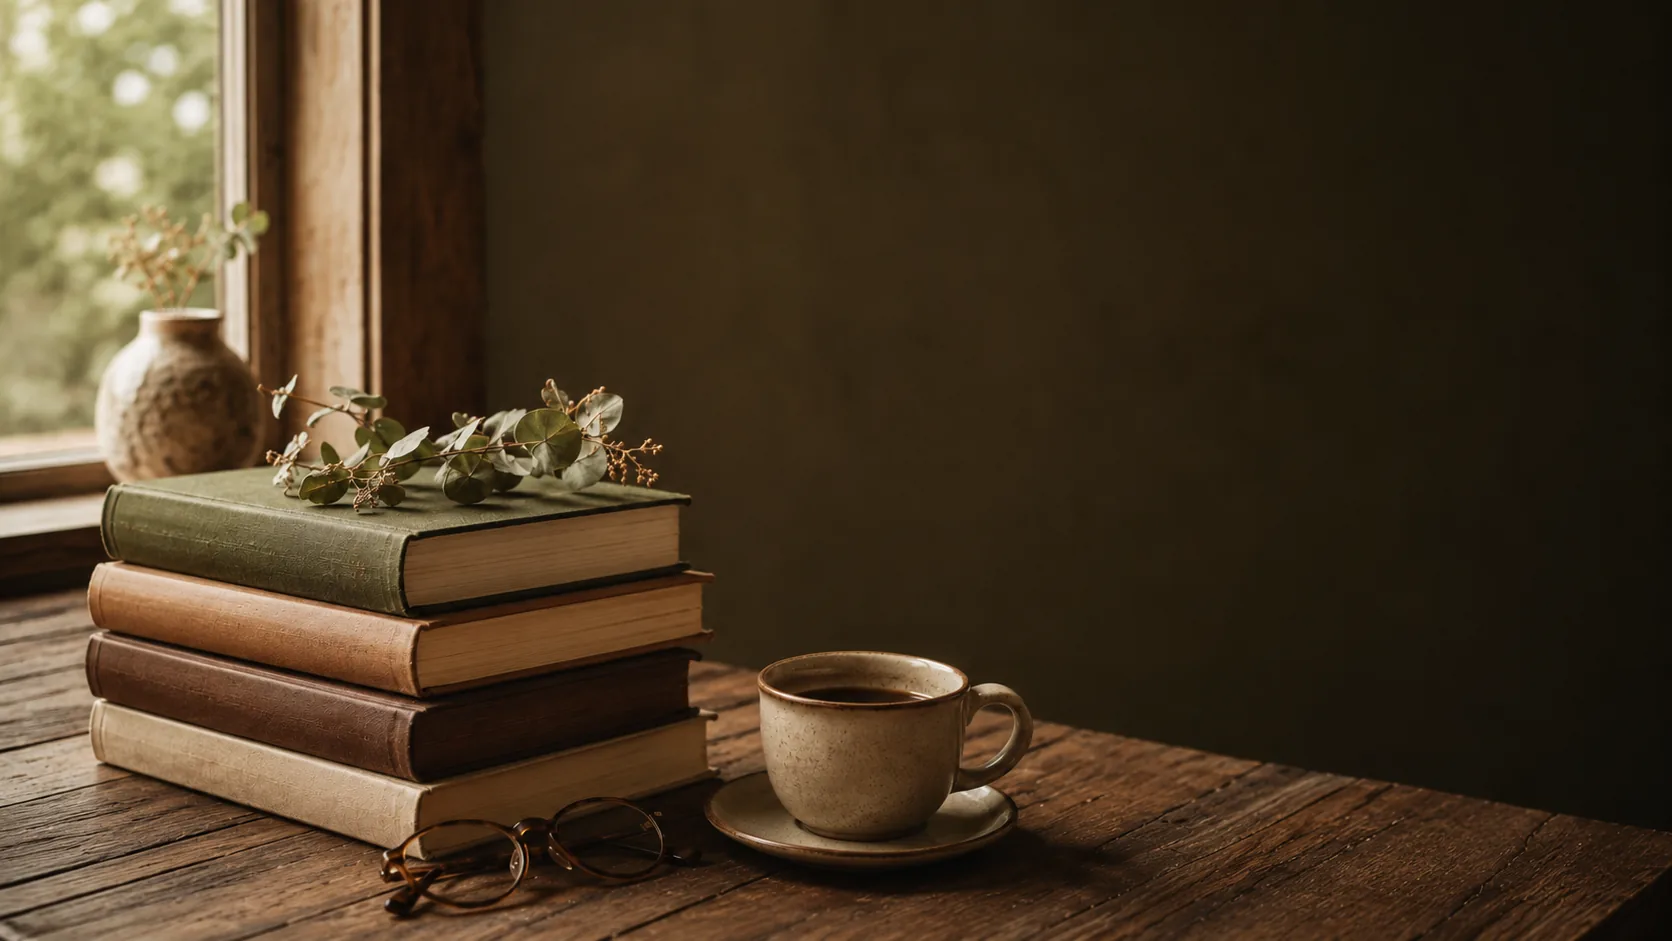
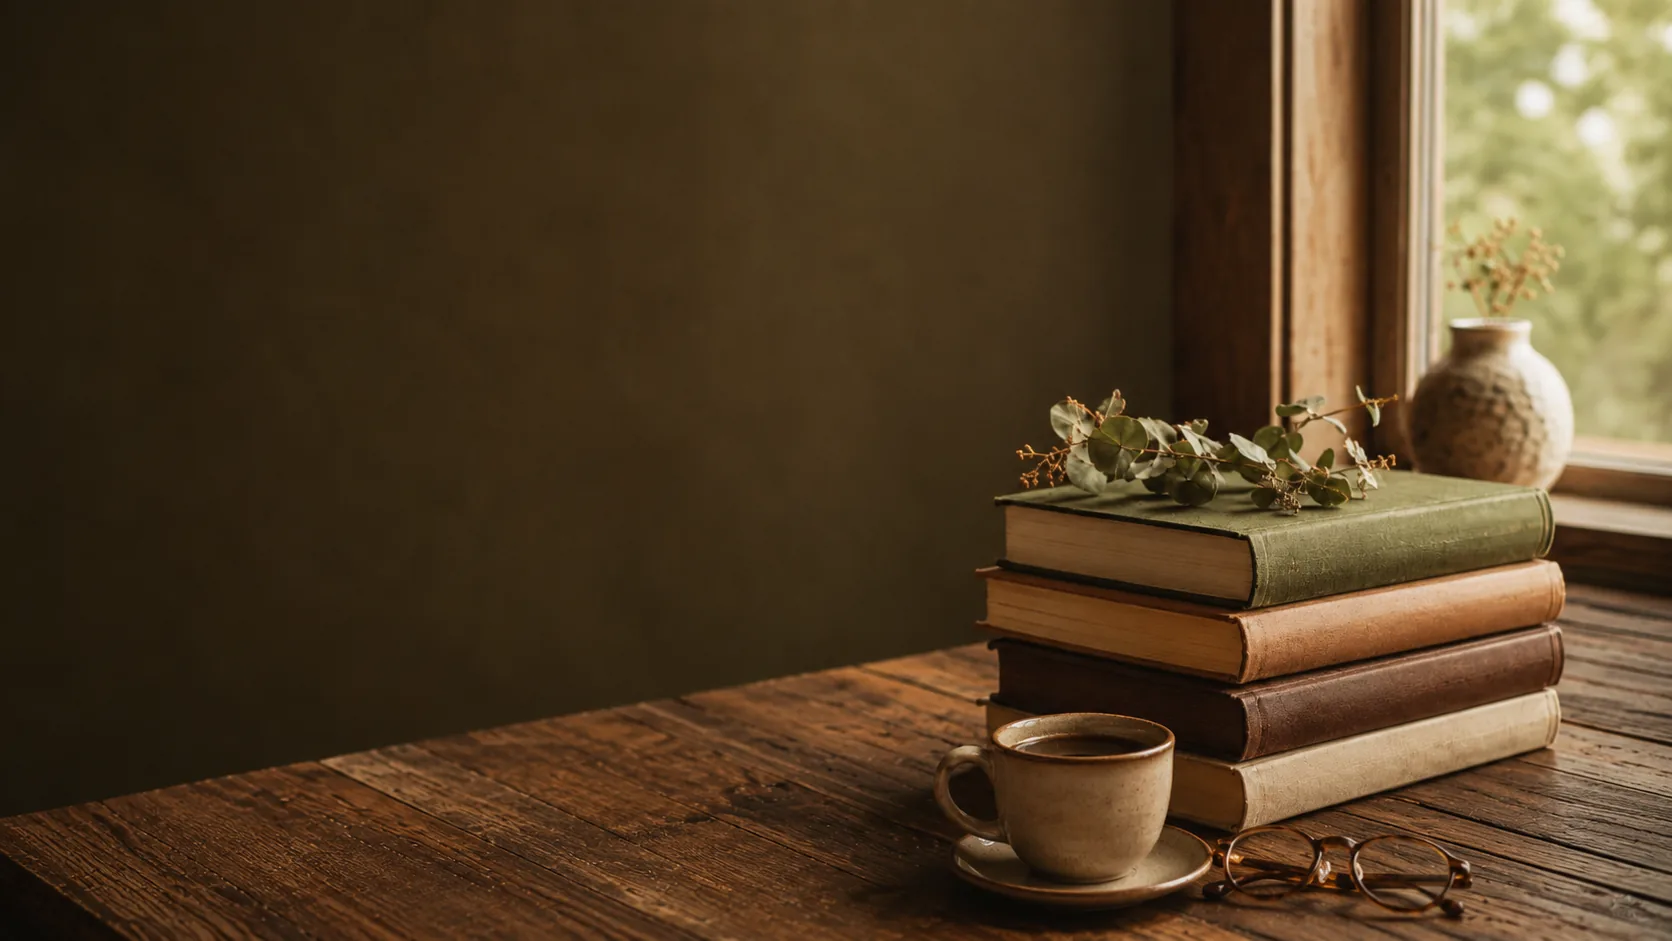
feat(ui): hero anh ben phai + nen gradient cho mobile
- Doi sang anh heroright (chu TRAI, sach PHAI): public/hero.webp 77KB
  (nen tu PNG 1.86MB bang ffmpeg); object-right, overlay t01i-trai (gradient-to-r)
- Nguong hien anh ha xuong md (>=768px)
- Fix chong tran: h1 giu text-4xl toi lg (chi len text-5xl >=1024px) — tranh
  "danh cho rieng ban" 48px tran cot nua man o dai 768-1024
- Mobile (<768px, an anh) khong con trong: nen hero LUON la gradient toi
  thuong hieu (neutral + diem sang am accent) → chu LUON sang (neutral-content),
  bo duoc cac class doi mau theo breakpoint (gon hon)
- Form them text-base-content de doc duoc tren nen toi
- gitignore frontend/hero*.png; launch.json autoPort:false (FE can dung 5173 cho CORS)

Verify: tsc -b + vite build xanh. Browser (ca light & dark):
- mobile 375: anh an, hero gradient toi (neutral) + chu sang, form doc duoc
- md 800: anh hien, chu trai sang, h1 36px KHONG tran
- desktop 1440: anh object-right de len gradient, chu trai sang

diff --git a/frontend/src/pages/home/HomePage.tsx b/frontend/src/pages/home/HomePage.tsx
@@ -78,43 +78,53 @@ export default function HomePage() {
   return (
     <div>
       {/* ===================== HERO ===================== */}
-      <section className="relative overflow-hidden bg-base-200">
-        {/* Ảnh nền — CHỈ desktop (mobile ẩn để tránh crop dọc làm hỏng ảnh ngang).
-            object-bottom giữ chồng sách + tách cà phê; vùng tối bên phải dành cho chữ.
-            fetchPriority cao + width/height: ảnh above-the-fold, tránh nhảy layout. */}
+      <section className="relative overflow-hidden bg-neutral text-neutral-content">
+        {/* Nền gradient trang trí — LUÔN hiện (kể cả mobile khi ảnh ẩn) → hero không bị trống.
+            Lớp 1: rêu đậm chuyển nhẹ sang xanh chính. Lớp 2: điểm sáng ấm góc phải — chất "ánh sách". */}
+        <div
+          aria-hidden="true"
+          className="absolute inset-0 bg-gradient-to-br from-neutral via-neutral to-primary/25"
+        />
+        <div
+          aria-hidden="true"
+          className="absolute inset-0 bg-[radial-gradient(circle_at_80%_25%,rgba(198,160,94,0.22),transparent_55%)]"
+        />
+
+        {/* Ảnh thật — CHỈ desktop (≥768px), đè lên nền gradient; object-right khoe sách bên PHẢI.
+            Mobile ẩn để tránh crop dọc làm hỏng ảnh ngang. fetchPriority cao + width/height chống nhảy layout. */}
         <img
           src="/hero.webp"
           alt=""
           width={1672}
           height={941}
           fetchPriority="high"
-          className="hidden lg:block absolute inset-0 w-full h-full object-cover object-bottom"
+          className="hidden md:block absolute inset-0 w-full h-full object-cover object-right"
         />
-        {/* Overlay: tối ở PHẢI (vùng chữ) → trong suốt dần sang TRÁI (giữ sách rõ).
-            Màu neutral nên tối ở cả theme sáng lẫn tối → chữ luôn đọc được. */}
-        <div className="hidden lg:block absolute inset-0 bg-gradient-to-l from-neutral/85 via-neutral/50 to-transparent" />
+        {/* Overlay đảm bảo chữ đọc được KHI có ảnh — tối ở TRÁI → trong suốt sang PHẢI. */}
+        <div
+          aria-hidden="true"
+          className="hidden md:block absolute inset-0 bg-gradient-to-r from-neutral/85 via-neutral/45 to-transparent"
+        />
 
-        {/* relative để khối chữ nổi LÊN TRÊN ảnh + overlay (cùng tầng positioned, vẽ sau) */}
-        <div className="relative max-w-6xl mx-auto px-4 py-14 md:py-20 lg:min-h-[34rem] grid lg:grid-cols-2 items-center">
-          {/* Cột chữ: mobile thường (base-content / nền base-200);
-              desktop đẩy sang cột PHẢI + chữ sáng (neutral-content) trên vùng ảnh tối. */}
-          <div className="max-w-xl lg:col-start-2 lg:text-neutral-content">
-            <span className="inline-flex items-center gap-1 text-xs font-semibold uppercase tracking-widest text-accent border border-accent/30 bg-accent/10 lg:bg-black/25 lg:border-accent/50 rounded-full px-3 py-1">
+        {/* Nội dung — chữ LUÔN sáng (neutral-content) vì nền hero luôn tối ở cả 2 theme → bỏ được các class đổi màu theo breakpoint. */}
+        <div className="relative max-w-6xl mx-auto px-4 py-14 md:py-20 md:min-h-[34rem] grid md:grid-cols-2 items-center">
+          <div className="max-w-xl">
+            <span className="inline-flex items-center gap-1 text-xs font-semibold uppercase tracking-widest text-neutral-content/90 border border-neutral-content/25 bg-neutral-content/10 rounded-full px-3 py-1">
               ★ Tuyển chọn đầu sách chất lượng
             </span>
-            <h1 className="font-serif text-4xl md:text-5xl font-semibold text-base-content lg:text-neutral-content leading-tight mt-4">
+            <h1 className="font-serif text-4xl lg:text-5xl font-semibold leading-tight mt-4">
               Tìm cuốn sách
               <br />
               dành cho riêng bạn
             </h1>
-            <p className="text-base-content/70 lg:text-neutral-content/85 mt-4 text-lg max-w-lg">
+            <p className="text-neutral-content/85 mt-4 text-lg max-w-lg">
               Văn học, kinh tế, kỹ năng và thiếu nhi — giao nhanh, gói ghém như một món quà tri thức.
             </p>
 
             <form
               onSubmit={handleSearch}
               role="search"
-              className="mt-6 flex items-center gap-2 bg-base-100 border border-base-300 rounded-full p-1.5 pl-5 max-w-lg shadow-sm"
+              className="mt-6 flex items-center gap-2 bg-base-100 text-base-content border border-base-300 rounded-full p-1.5 pl-5 max-w-lg shadow-sm"
             >
               <Search size={18} className="text-base-content/70 shrink-0" />
               <input
@@ -130,12 +140,12 @@ export default function HomePage() {
 
             {visibleCategories.length > 0 && (
               <div className="flex gap-2 mt-4 flex-wrap items-center">
-                <span className="text-sm text-base-content/70 lg:text-neutral-content/80">Phổ biến:</span>
+                <span className="text-sm text-neutral-content/80">Phổ biến:</span>
                 {visibleCategories.slice(0, 4).map((c) => (
                   <Link
                     key={c.id}
                     to={`/books?category=${c.slug}`}
-                    className="badge badge-outline border-base-300 lg:border-neutral-content/40 lg:text-neutral-content hover:border-primary hover:text-primary"
+                    className="badge badge-outline border-neutral-content/40 text-neutral-content hover:border-primary hover:text-primary hover:bg-base-100"
                   >
                     {c.name}
                   </Link>